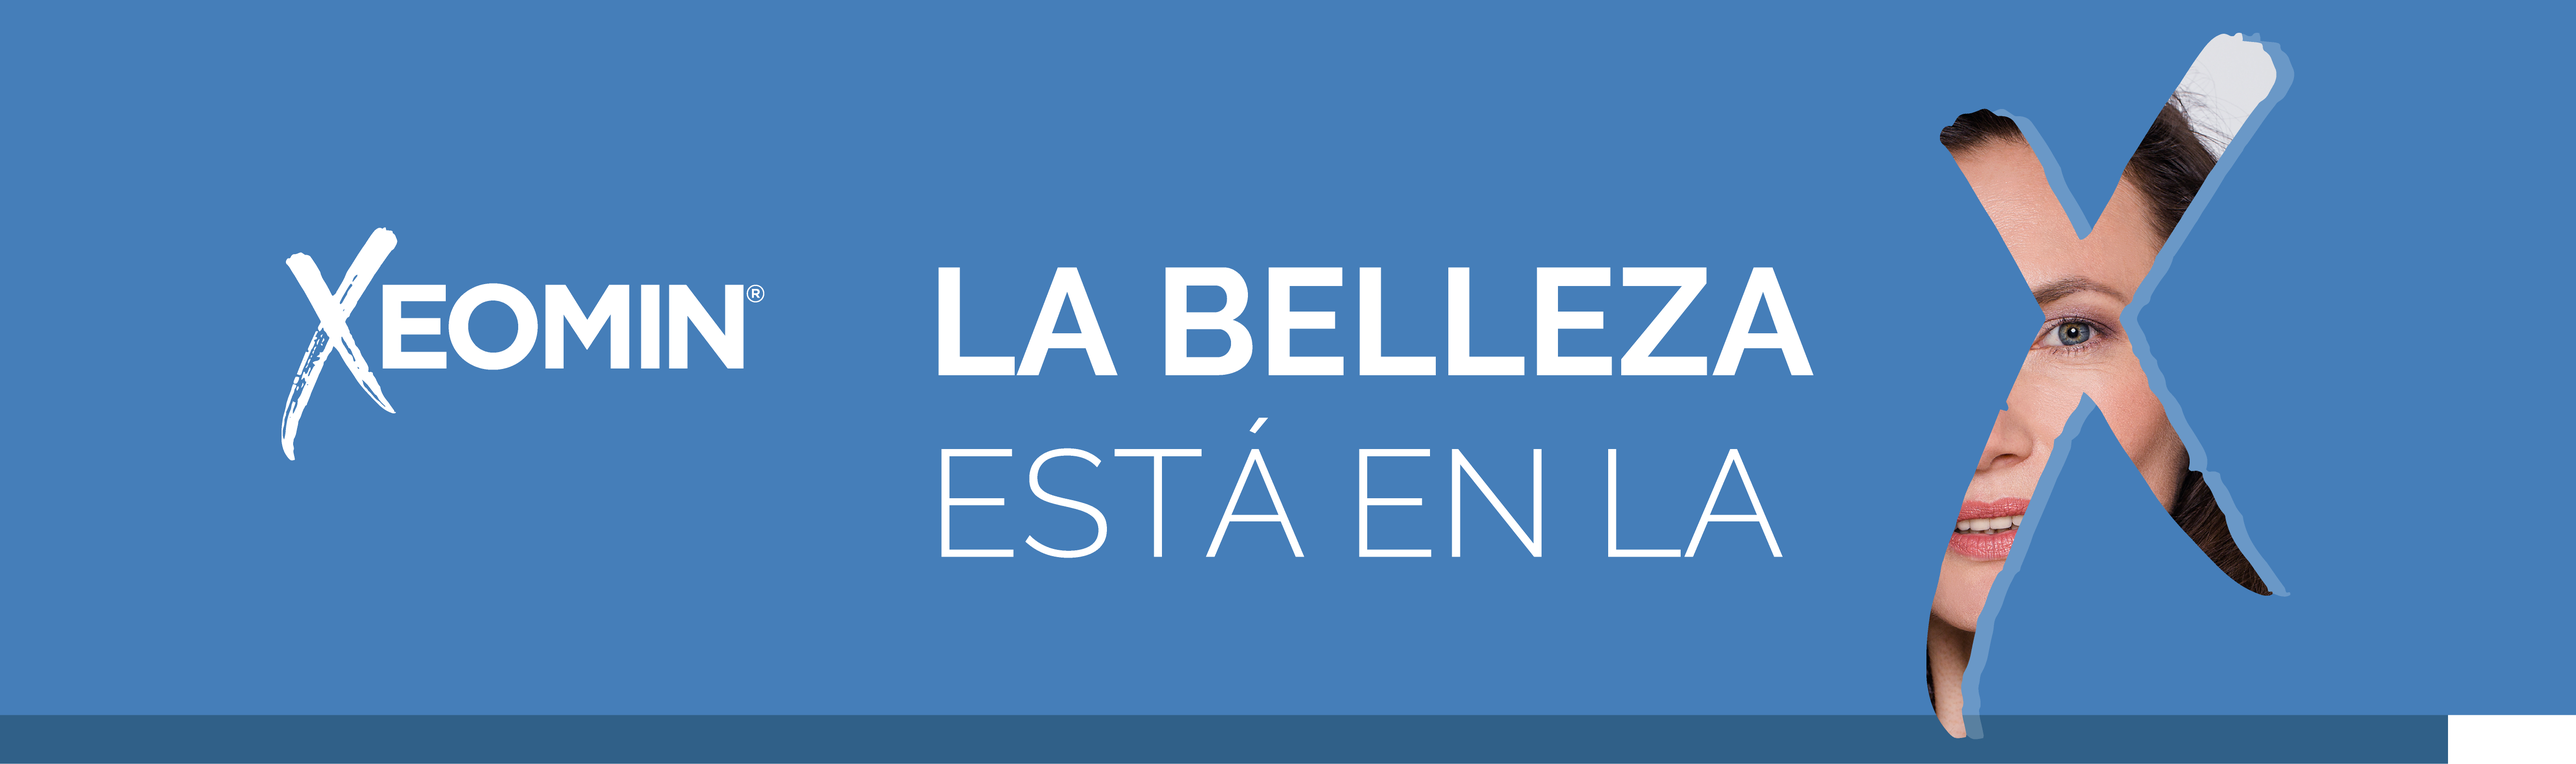
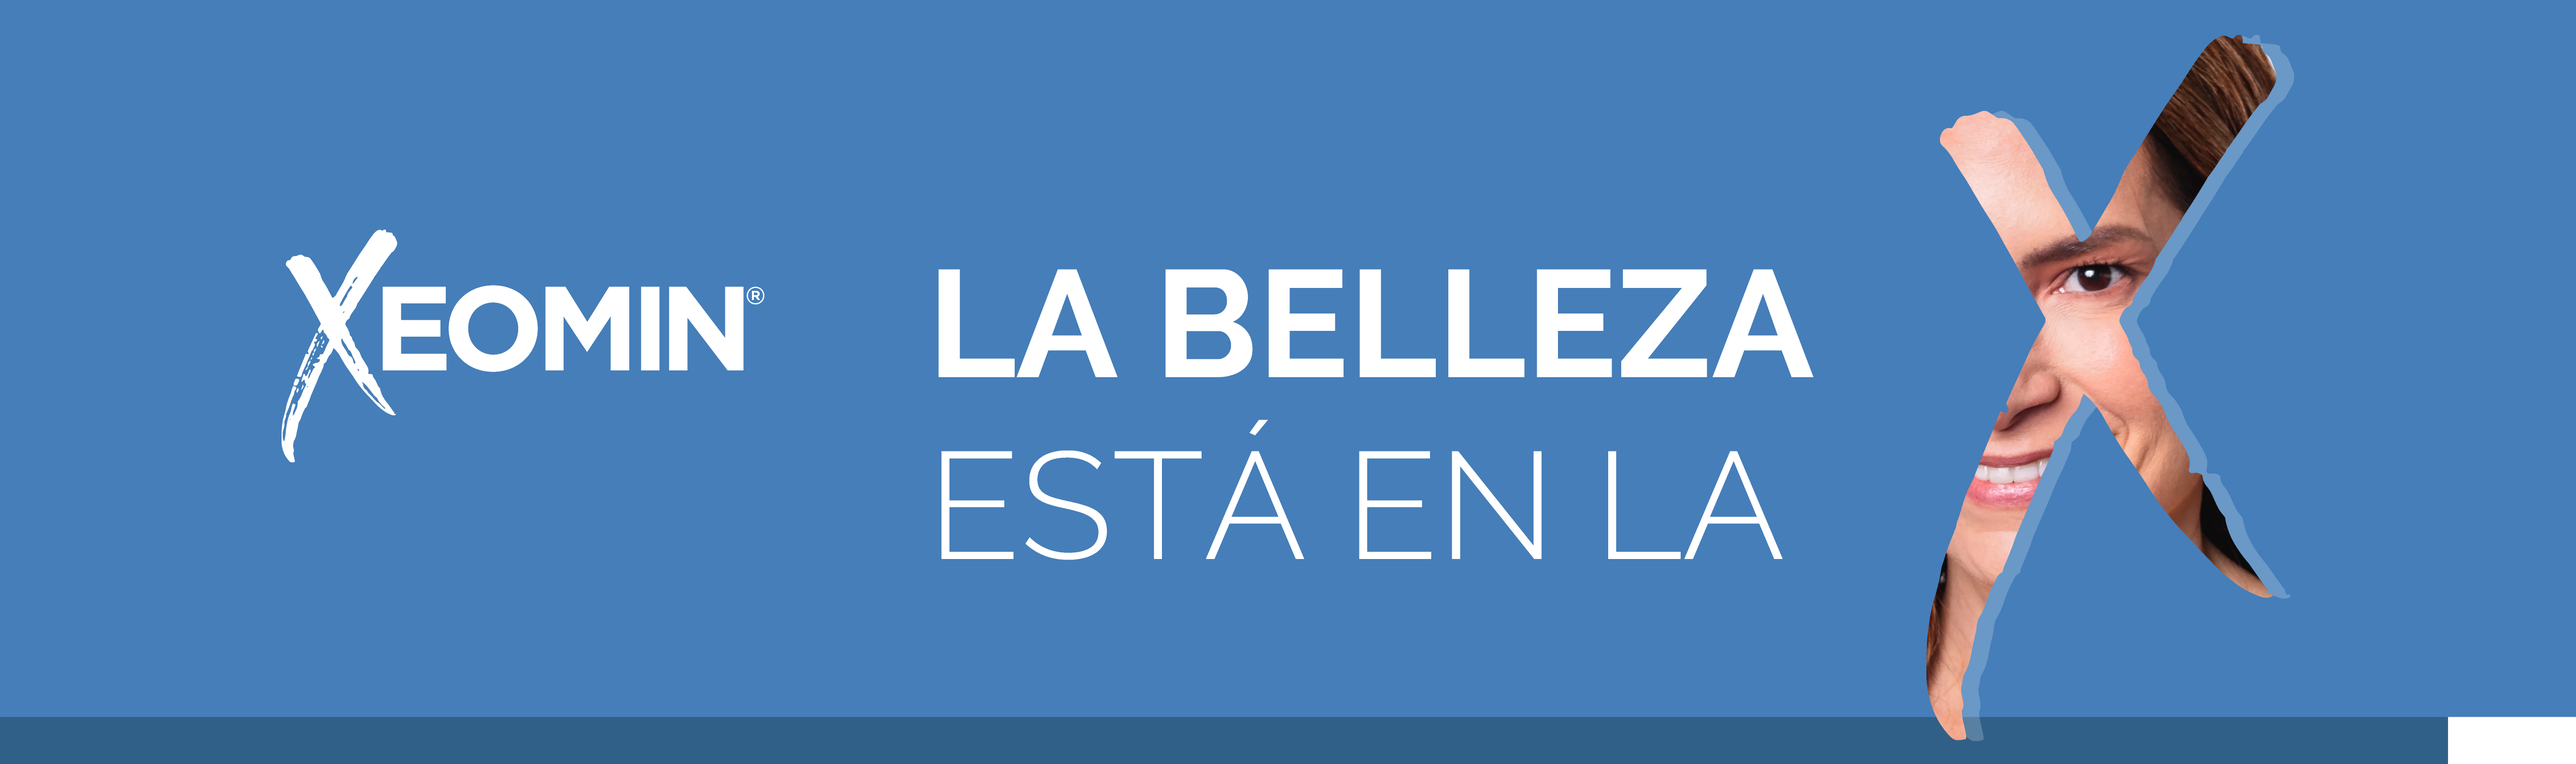
change correct header

diff --git a/src/components/Xeomin/XeominMov.js b/src/components/Xeomin/XeominMov.js
@@ -99,16 +99,15 @@ export default class XeominMov extends Component{
                      <b>El complejo proteico es simplemente una impureza</b>
                   </p>
                   <img className="XtractPic" src="/assets/img/Pics/Xtract.png" alt="Xtract" />
+                  <p>
+                     <b className="RalewayBold">XTRACT TECHNOLOGY </b>
+                        PROCESO DE MANUFACTURA Y PRODUCCIÓN</p>
                </div>
+
                <div className="XtractVideo row col-12 justify-content-center">
                   <div className="col-5 Raleway font40">
-                     <p>
-                        <b className="RalewayBold">XTRACT TECHNOLOGY </b>
-                        PROCESO DE MANUFACTURA Y PRODUCCIÓN</p>
                   </div>
-                  <div className="col-7">
-                     <img src="" alt="Video"/>
-                  </div>
+                  <iframe title="vimeo-player" src="https://player.vimeo.com/video/528570742" width="640" height="360" frameborder="0" allowfullscreen></iframe>
                </div>
                <div className="container col-12 justify-content-center">
                <div className="row col-12" style={{margin:"5% 0%"}}>

diff --git a/src/components/Campaign/Campaign.css b/src/components/Campaign/Campaign.css
@@ -37,6 +37,7 @@
    background-color: #E7E7E7;
    margin-top: 5%;
    margin-bottom: 5%;
+   text-align: center;
 }
 .VideoPureText{
    text-align: left;
@@ -111,13 +112,17 @@
 @media(min-width:769px){
    .VidPure{
       margin: 5% 0%;
-      width: 640px;
-      height: 360px;
+      width: calc(640px + 5vw);
+      max-width: 110%;
+      height: calc(360px + 5vh);
+      max-height: 110%;
    }
    .VidPurify{
       margin: 5% 0%;
       width: calc(640px + 5vw);
+      max-width: 110%;
       height: calc(360px + 5vh);
+      max-height: 110%;
    }
    .VidPureMov{
       display: none;

diff --git a/src/components/Header/Header.js b/src/components/Header/Header.js
@@ -7,7 +7,9 @@ export default class Header extends Component{
       return(
          <React.Fragment>
             <div className="MainHeaderBox">
-               <img className="HeaderPic" src="/assets/img/Pics/Header.png" alt="" />
+               <img className="HeaderPic" src="/assets/img/Pics/Header.png" 
+               alt="" />
+               <img className="HeaderMovPic" src="/assets/img/Pics/HeaderMov.png" alt="" />
                <div className="TestimonyVid">
                   <div className="row">
                      <div className="col-6 Raleway font32">

diff --git a/src/components/Campaign/Campaign.js b/src/components/Campaign/Campaign.js
@@ -43,7 +43,7 @@ export default class Campaign extends Component{
                            Video GP - Puro y comprobado
                         </p>
                      </div>
-                     <div className="col-7 ">
+                     <div className="col-6">
                         <iframe title="vimeo-player" src="https://player.vimeo.com/video/529064794" className="VidPure " /* width="640" height="360" */ frameborder="0" allowfullscreen></iframe>
                      </div>
                   </div>

diff --git a/src/components/Header/Header.css b/src/components/Header/Header.css
@@ -11,3 +11,16 @@
 .TestimonyText{
    padding: 5% 8% 5% 8%;
 }
+@media(min-width:769px){
+   .HeaderMovPic{
+      display: none;
+   }
+}
+@media(max-width:768px){
+   .HeaderPic{
+      display: none;
+   }
+   .HeaderMovPic{
+      width: 100%;
+   }
+}
